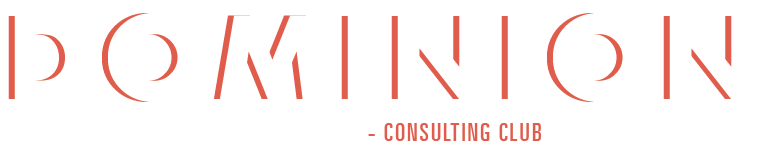
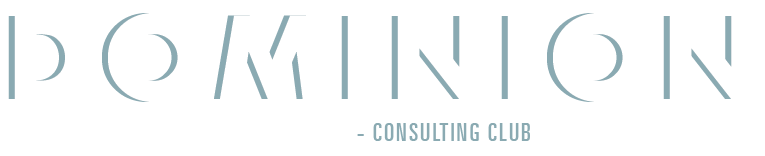
removed scrollbar

diff --git a/main.css b/main.css
@@ -1,4 +1,5 @@
 /* CSS Styles */
+html { overflow: auto;}
 body{
   font-size:87.5%;
   font-size:14px;
@@ -13,10 +14,10 @@ p{
   line-height:1.5em;
   color: #fff;
 }
-a { color: #ca4641;}
+a { color: #8aaab2;}
 a:hover {
   text-decoration:underline;
-  color: #ca4641;
+  color: #8aaab2;
 }
 h1{
   margin:0 0 20px 0;
@@ -25,7 +26,7 @@ h1{
 
 h2{
   padding:0;
-  color:#ca4641;
+  color:#8aaab2;
 }
 
 #header {
@@ -96,7 +97,8 @@ h2{
   text-transform:uppercase;
   letter-spacing:1px;
   background:#fff url(images/slide-title-inactive-1.jpg) 0 0 no-repeat;
-  color:#ca4641;
+  background:#fff ;
+  color:#8aaab2;
 }
 #accordion-1 dt.active{
   cursor:pointer;

diff --git a/index.html b/index.html
@@ -27,7 +27,7 @@
 
     <div class="fb-like" data-href="https://www.facebook.com/pages/IIM-Calcutta-Consulting-Club/343287605688394" data-send="false" data-layout="button_count" data-width="150" data-show-faces="false"></div>
     <div class="container">
-      <h1 id="header"><a href="#"><img src="header.png" alt="Dominion by IIMC Consulting Club"/></a></h1>
+      <h1 id="header"><a href="#"><img src="images/header.png" alt="Dominion by IIMC Consulting Club"/></a></h1>
         
         <div id="accordion-1">
             <dl>
